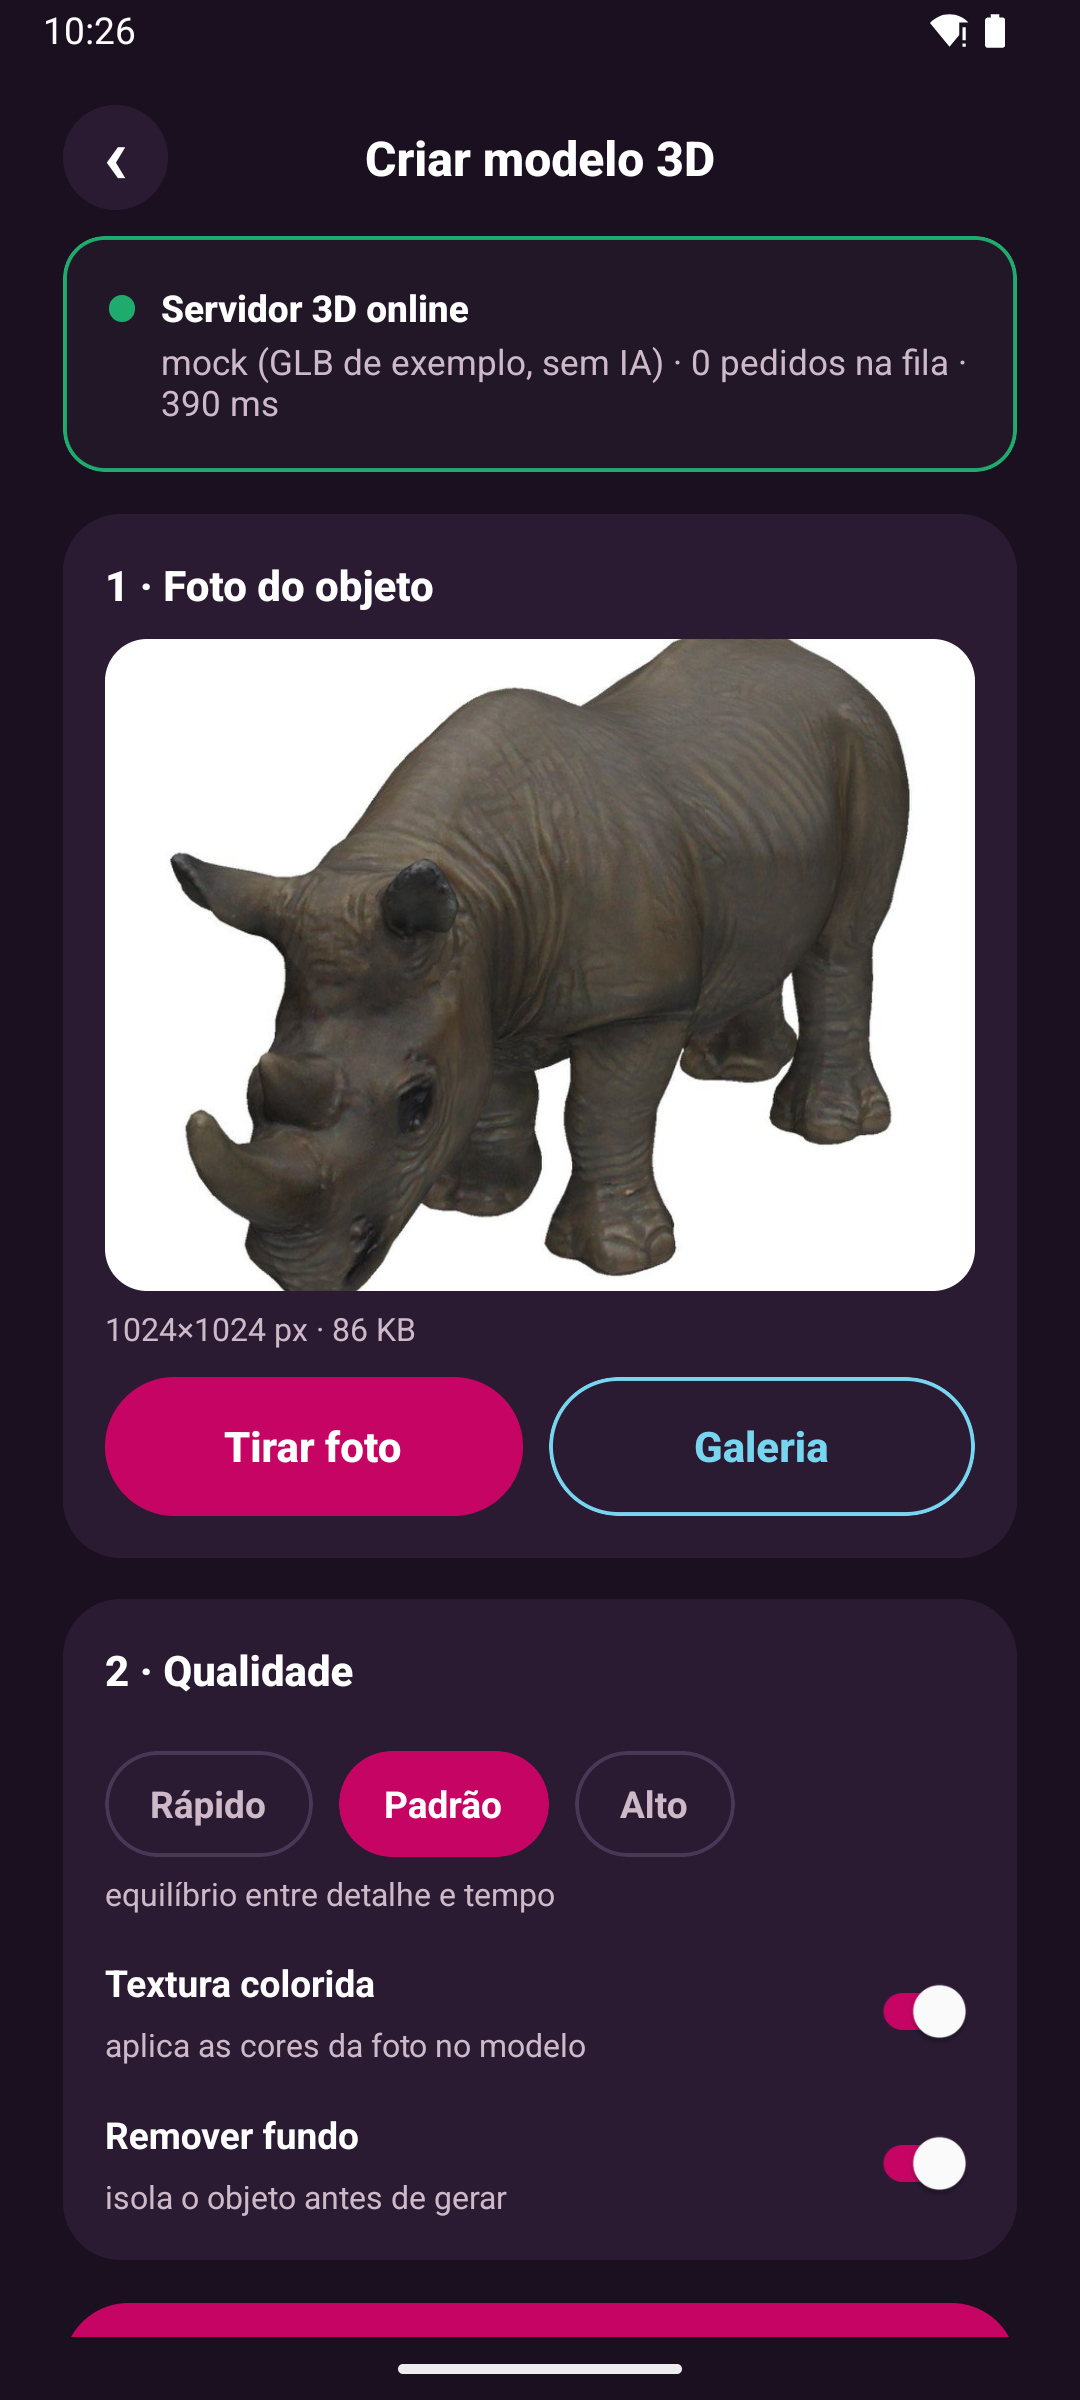
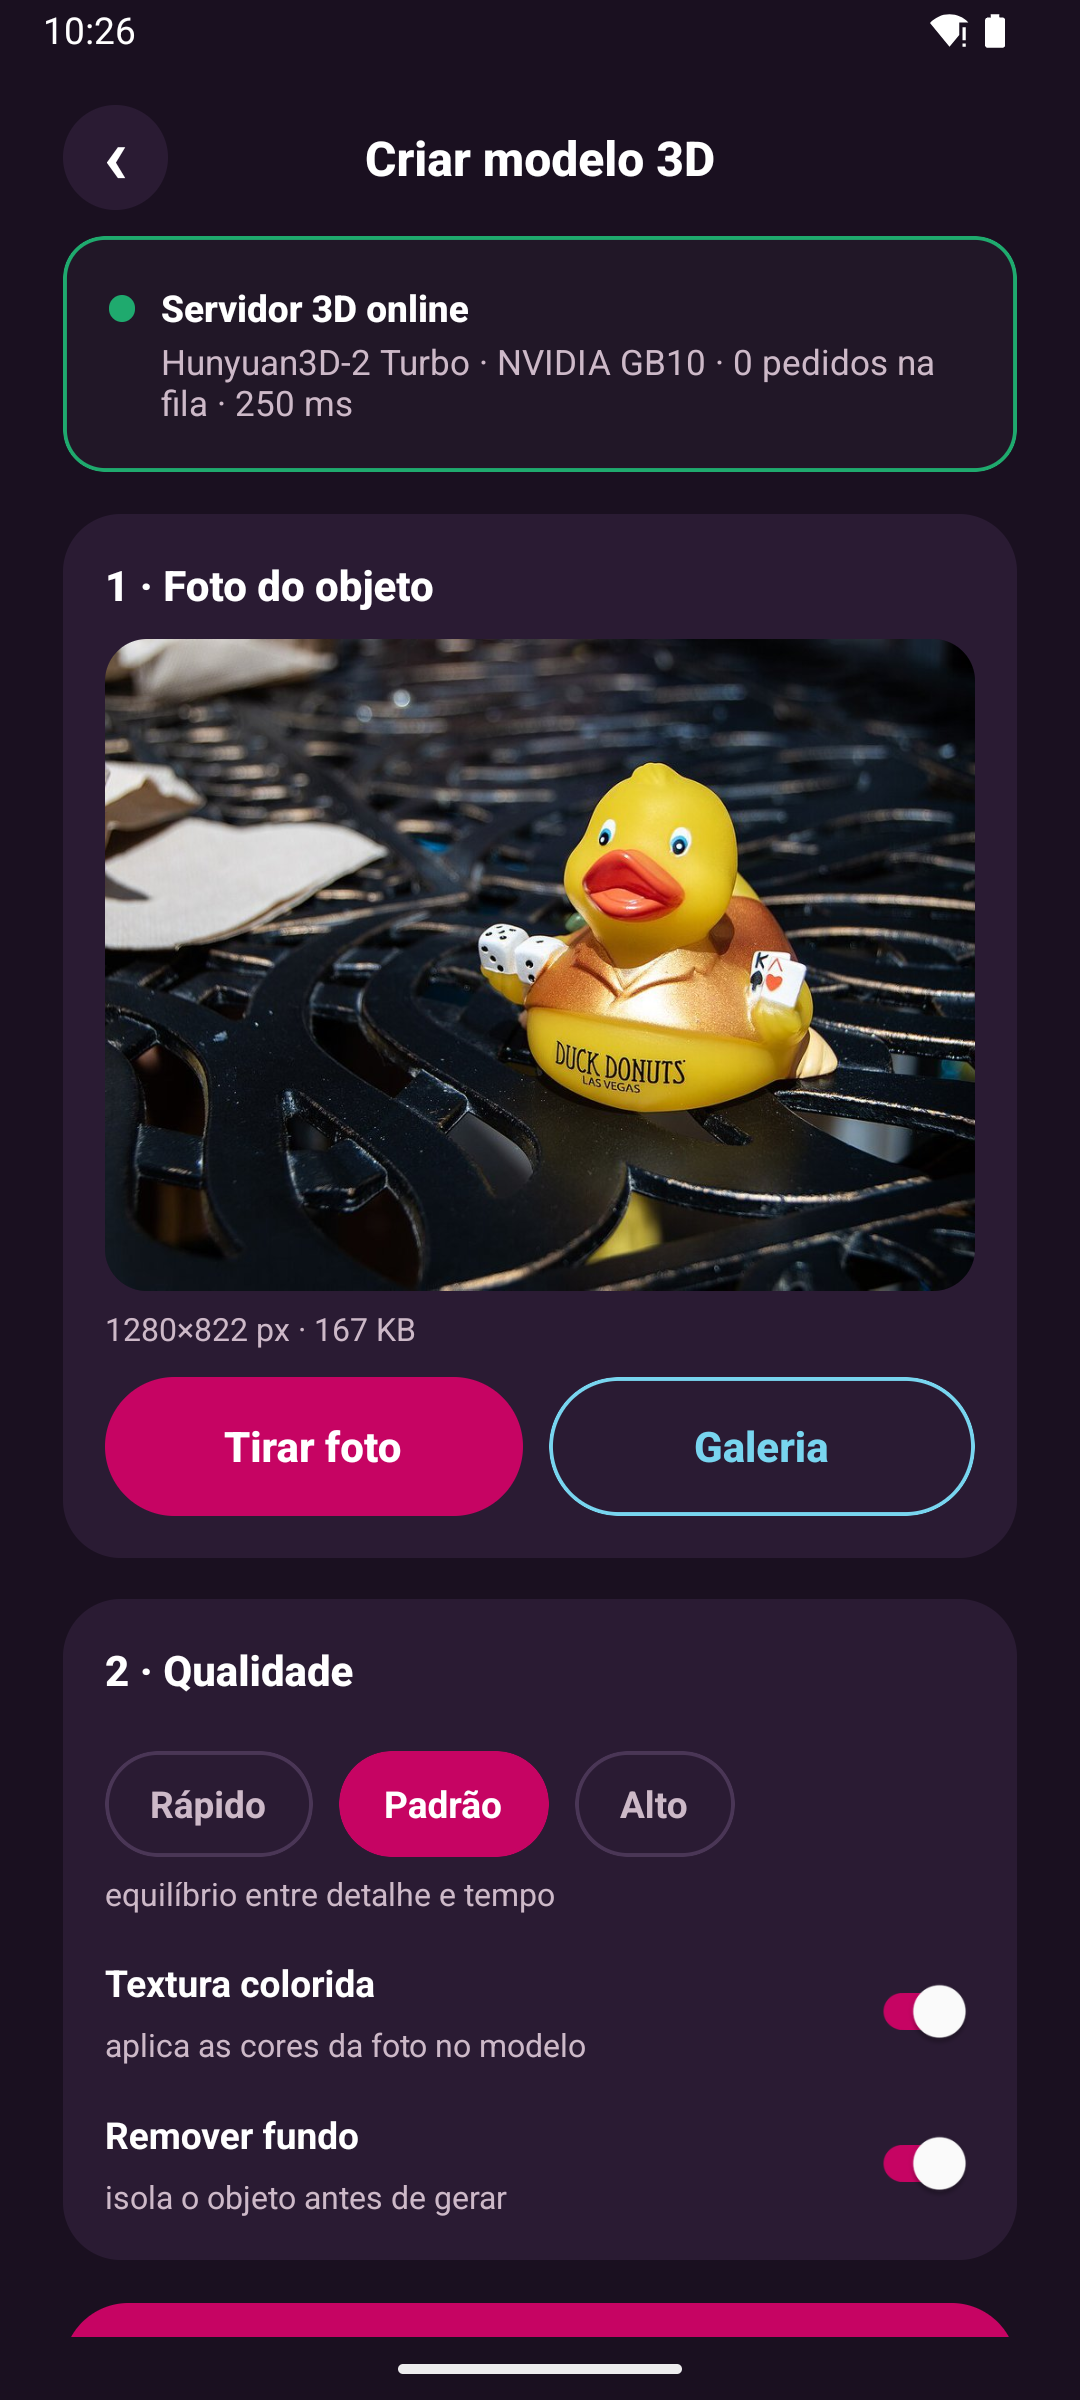
store: capturas com o servidor 3D real, guia de publicacao do APK e politica atualizada
- phone-2 e phone-3 (antes com o mock) substituidas por capturas do teste com o
  servidor real; nova phone-7 com modelo gerado a partir de foto no visualizador 3D
- make-graphics.py le as capturas de evidencias/android e evidencias/android-real
- PUBLICAR_PLAY_STORE.md: hashes do AAB/APK final, comando exato para publicar o APK
  em /opt/cerise-ota/ota/cerise-ar-1.1.0.apk (pendencia do Eduardo, sem tocar no
  version.json), chave de API opcional e exposicao do servidor como pre-requisito da producao
- politica de privacidade e formularios: Excluir no app tambem apaga a copia do servidor
- README: contrato tratado pelo app e tempos medidos contra o servidor real

Changed region(s): [[0.0917, 0.25, 0.9167, 0.5625], [0.1528, 0.125, 0.55, 0.1875], [0.5806, 0.125, 0.8861, 0.1562]]

diff --git a/cerise-expo/store/privacidade.html b/cerise-expo/store/privacidade.html
@@ -66,7 +66,7 @@
   <p>A comunicação com os servidores de produção usa conexão criptografada (HTTPS/TLS). O acesso aos servidores é restrito à equipe do projeto. Os arquivos no aparelho ficam na área privada do aplicativo.</p>
 
   <h2>6. Seus direitos (LGPD, art. 18)</h2>
-  <p>Você pode pedir confirmação de tratamento, acesso, correção, eliminação dos dados, informação sobre compartilhamento e revogação do consentimento. Como o app não tem contas, para pedir a exclusão antecipada de uma foto ou de um apelido no ranking, escreva para o contato acima informando a data/hora aproximada do envio. Modelos guardados no aparelho podem ser apagados por você a qualquer momento em <em>Meus modelos → Excluir</em>.</p>
+  <p>Você pode pedir confirmação de tratamento, acesso, correção, eliminação dos dados, informação sobre compartilhamento e revogação do consentimento. Como o app não tem contas, para pedir a exclusão antecipada de uma foto ou de um apelido no ranking, escreva para o contato acima informando a data/hora aproximada do envio. Modelos guardados no aparelho podem ser apagados por você a qualquer momento em <em>Meus modelos → Excluir</em>; ao excluir, o app também pede ao servidor de geração 3D que apague na hora a foto e o modelo correspondentes, se ainda estiverem lá.</p>
 
   <h2>7. Crianças e adolescentes</h2>
   <p>O app é destinado ao público em geral e não é direcionado a crianças menores de 13 anos. Recomenda-se que menores usem o envio de fotos com acompanhamento de um responsável e não fotografem pessoas.</p>

diff --git a/cerise-expo/store/make-graphics.py b/cerise-expo/store/make-graphics.py
@@ -5,7 +5,7 @@ Gera os recursos graficos da Play Store a partir dos assets do app:
   store/feature-graphic-1024x500.png (recurso grafico: paleta CERISE + emblema + print do app)
   store/screenshots/phone-*.png      (copias das capturas escolhidas, 1080x2400)
 
-Uso: python store/make-graphics.py <pasta_com_capturas_do_emulador>
+Uso: python store/make-graphics.py <pasta evidencias/ do espelho (com android/ e android-real/)>
 """
 import os
 import shutil
@@ -24,14 +24,16 @@ CERISE = (198, 4, 99)
 CYAN = (120, 213, 239)
 WHITE = (255, 255, 255)
 
-# capturas usadas na ficha (sem resultados do mock, para nao sugerir geracao que nao ocorreu)
+# capturas usadas na ficha. As telas de geracao (2, 3 e 7) sao do teste ponta a ponta contra o
+# servidor 3D REAL (android-real/, 26/10/2026); nenhuma mostra o mock.
 SHOTS = [
-    ("A01-home.png", "phone-1-home.png"),
-    ("A06-criar-foto.png", "phone-2-criar-foto.png"),
-    ("A08-gerando.png", "phone-3-gerando.png"),
-    ("A15-visualizador-catalogo.png", "phone-4-visualizador-3d.png"),
-    ("A18-visualizador-capacete.png", "phone-5-visualizador-pbr.png"),
-    ("A16-sobre.png", "phone-6-sobre.png"),
+    ("android/A01-home.png", "phone-1-home.png"),
+    ("android-real/R05-pato-foto.png", "phone-2-criar-foto.png"),
+    ("android-real/R13b-bule-renderizando-vistas.png", "phone-3-gerando.png"),
+    ("android/A15-visualizador-catalogo.png", "phone-4-visualizador-3d.png"),
+    ("android/A18-visualizador-capacete.png", "phone-5-visualizador-pbr.png"),
+    ("android/A16-sobre.png", "phone-6-sobre.png"),
+    ("android-real/R11-pato-visualizador-3d.png", "phone-7-modelo-gerado.png"),
 ]
 
 
@@ -94,8 +96,8 @@ def feature_graphic(shots_dir):
     d.rounded_rectangle((66, 380, 330, 424), radius=22, fill=CERISE)
     d.text((88, 388), "CERISE · EMC · UFG", font=font(22, "SemiBold"), fill=WHITE)
 
-    p1 = phone(os.path.join(shots_dir, "A15-visualizador-catalogo.png"), 430)
-    p2 = phone(os.path.join(shots_dir, "A01-home.png"), 380)
+    p1 = phone(os.path.join(shots_dir, "android", "A15-visualizador-catalogo.png"), 430)
+    p2 = phone(os.path.join(shots_dir, "android", "A01-home.png"), 380)
     img.alpha_composite(p2, (W - p2.width - 190, 80))
     img.alpha_composite(p1, (W - p1.width - 30, 45))
     out = os.path.join(STORE, "feature-graphic-1024x500.png")

diff --git a/cerise-expo/store/PUBLICAR_PLAY_STORE.md b/cerise-expo/store/PUBLICAR_PLAY_STORE.md
@@ -5,11 +5,11 @@ e em `cerise-expo/build-out/`. Os passos marcados com 🔑 exigem o login do Edu
 
 | Item pronto | Onde |
 |---|---|
-| AAB assinado com a chave de **upload** (versão 1.1.0, versionCode 110, targetSdk 36) | `build-out/cerise-ar-1.1.0-110.aab` |
-| APK release (instalação direta / testes) | `build-out/cerise-ar-1.1.0-110.apk` |
+| AAB assinado com a chave de **upload** (versão 1.1.0, versionCode 110, targetSdk 36) — rebuild final de 26/10/2026 (~10:33), depois do teste ponta a ponta contra o servidor 3D real | `build-out/cerise-ar-1.1.0-110.aab` (55.157.760 bytes, SHA-256 `1dfba4b8…dcf9`) |
+| APK release (instalação direta / testes; mesma versão e mesmo bundle JS do AAB) | `build-out/cerise-ar-1.1.0-110.apk` (83.299.939 bytes, SHA-256 `dd65ae36…05e8`) |
 | Keystore de upload + senhas (FORA do git) | `keystore/cerise-upload.jks` + `keystore/upload.properties` |
 | Textos da ficha (nome, descrições, notas da versão) | `store/listing-pt-BR.md` (limites conferidos em `store/listing-check.json`) |
-| Ícone 512×512, recurso gráfico 1024×500, capturas | `store/icon-512.png`, `store/feature-graphic-1024x500.png`, `store/screenshots/` |
+| Ícone 512×512, recurso gráfico 1024×500, 7 capturas (2, 3 e 7 com o servidor 3D real; nenhuma com o mock) | `store/icon-512.png`, `store/feature-graphic-1024x500.png`, `store/screenshots/` |
 | Política de privacidade (pronta; **publicação pendente**, ver passo 0b) | URL: https://cerise.wenfur.com.br/privacidade.html · fonte: `store/privacidade.html` |
 | Respostas: Segurança dos dados, IARC, público-alvo, acesso ao app | `store/formularios-play-console.md` |
 
@@ -36,6 +36,38 @@ curl -I https://cerise.wenfur.com.br/privacidade.html   # deve responder 200 tex
 ```
 
 > Em 26/10/2026 a página ainda não havia sido publicada (a URL respondia 404); o passo ficou pendente.
+
+## 0c. (Pendente — decisão do Eduardo) Publicar o APK 1.1.0 para instalação direta
+
+Decisão de 26/10/2026: **nada foi publicado no wenfur**. O APK release final (mesmo código do AAB,
+assinado com a chave de upload, testado ponta a ponta contra o servidor 3D real) está em
+`build-out/cerise-ar-1.1.0-110.apk`. Para disponibilizá-lo por link direto, quando decidir:
+
+```powershell
+scp C:\Users\eduar\AndroidStudioProjects\CeriseAR\cerise-expo\build-out\cerise-ar-1.1.0-110.apk wenfur-root:/opt/cerise-ota/ota/cerise-ar-1.1.0.apk
+ssh wenfur-root "chmod 644 /opt/cerise-ota/ota/cerise-ar-1.1.0.apk && sha256sum /opt/cerise-ota/ota/cerise-ar-1.1.0.apk"
+curl.exe -sI https://cerise.wenfur.com.br/ota/cerise-ar-1.1.0.apk   # deve responder 200 e Content-Length igual ao arquivo local
+Get-FileHash C:\Users\eduar\AndroidStudioProjects\CeriseAR\cerise-expo\build-out\cerise-ar-1.1.0-110.apk -Algorithm SHA256   # conferir com o sha256sum acima
+```
+
+- **Não** altere `/opt/cerise-ota/ota/version.json`: ele é lido pelo app nativo antigo (1.0.0, `cerise-1.apk`) para
+  oferecer atualização; mudar o `apkUrl` ali empurraria a 1.1.0 para quem tem a versão antiga — decisão separada.
+- Em 26/10/2026 `https://cerise.wenfur.com.br/ota/cerise-ar-1.1.0.apk` respondia **404** (nada publicado) e
+  `https://cerise.wenfur.com.br/ota/cerise-1.apk` respondia 200 (APK antigo, 66 MB).
+- A geração 3D só funciona fora da rede interna depois que o servidor 3D for exposto (passo 7.1).
+- O APK é assinado com a chave de **upload**; com o Play App Signing, a versão da Play é assinada por outra
+  chave. Quem instalar pelo link direto não recebe atualização pela Play (precisa desinstalar antes).
+
+## 0d. Chave de API do servidor 3D (só se a exposição usar `GEN3D_API_KEYS`)
+
+O app envia o cabeçalho `X-API-Key` quando é compilado (ou publicado por OTA) com a variável
+`EXPO_PUBLIC_GEN3D_API_KEY` definida; sem ela, nenhum cabeçalho é enviado (caso deste AAB). A chave fica
+embutida no bundle JS — serve contra uso casual, junto com o *rate limit* do servidor, não como segredo forte.
+
+```powershell
+$env:EXPO_PUBLIC_GEN3D_API_KEY = '<a mesma chave de gen3d.secrets.env no Spark>'
+cd C:\cx\android; .\gradlew.bat :app:bundleRelease :app:assembleRelease
+```
 
 ## 1. 🔑 Conta de desenvolvedor
 
@@ -95,6 +127,10 @@ Use as respostas prontas de `store/formularios-play-console.md`:
 
 1. **Antes de enviar:** o servidor de geração 3D tem que estar publicado e respondendo em
    `https://cerise.wenfur.com.br/gen3d/api/v1/health` (senão o revisor verá "Servidor 3D não respondeu").
+   Em 26/10/2026 o servidor está pronto e foi validado ponta a ponta com este app, mas só é acessível pela
+   rede interna (encaminhamento SSH local); a **exposição pública é decisão pendente do Eduardo** — proposta,
+   riscos e passos em `cerise-2026-gen3d/server/README.md`. Conferência depois de expor:
+   `curl.exe -s https://cerise.wenfur.com.br/gen3d/api/v1/health` deve devolver `"status":"ok"`.
 2. *Produção → Criar nova versão* → promover a versão testada → países: Brasil (ou todos) → **Enviar para revisão**.
 3. A primeira revisão costuma levar de alguns dias a ~1 semana.
 

diff --git a/cerise-expo/README.md b/cerise-expo/README.md
@@ -35,11 +35,33 @@ store/                   pacote da Play Store (textos, ícone, recurso gráfico,
 | POST | `/api/v1/jobs` (multipart `image` + `options` JSON) | envio da foto → `202 {job_id, position, eta_seconds}` |
 | GET | `/api/v1/jobs/{id}` | polling (1,5 s gerando · 2 s na fila · backoff em falha de rede) |
 | GET | `/api/v1/jobs/{id}/model.glb` · `/thumbnail.png` | download para `Documents/gen3d/models/<id>/` |
-| DELETE | `/api/v1/jobs/{id}` | cancelar enquanto está na fila |
+| DELETE | `/api/v1/jobs/{id}` | cancelar enquanto está na fila; ao **Excluir** em *Meus modelos*, apagar a foto e o modelo no servidor |
 
-URL padrão: `https://cerise.wenfur.com.br/gen3d` (produção planejada — **publicação pendente**).
+Detalhes do servidor real tratados pelo app: `202` com `status: "done"` (resultado vindo do cache do servidor),
+`/health` com `status` `ok | loading | paused | degraded` (fora de `ok` o app avisa que o pedido vai esperar na fila),
+`timings.queue_s/run_s` do job (mostrados em *Meus modelos → detalhes* ao lado dos tempos medidos no app) e
+cabeçalho opcional `X-API-Key` — enviado só quando o build/OTA é feito com `EXPO_PUBLIC_GEN3D_API_KEY` definida.
+
+URL padrão: `https://cerise.wenfur.com.br/gen3d` (produção planejada — **exposição pública do servidor pendente de decisão do Eduardo**).
 Para testes: emulador → `http://10.0.2.2:18095` (servidor real via `ssh -N -L 127.0.0.1:18095:localhost:8095 spark-bridge`)
 ou `http://10.0.2.2:18096` (mock); Simulador iOS → `http://localhost:18096`.
+
+### Validação ponta a ponta contra o servidor real (26/10/2026)
+
+Emulador Android 16 → encaminhamento SSH local → API real no DGX Spark (Hunyuan3D-2 Turbo, 1 worker, GPU GB10),
+fotos reais CC0 escolhidas pelo seletor de fotos do sistema. Tempos medidos pelo app (linha `[gen3d] modelo pronto`
+no logcat) e conferidos com o estado do job no servidor:
+
+| Objeto · preset | Envio | Fila | Geração | Download | Total | Execução no servidor | GLB |
+|---|---|---|---|---|---|---|---|
+| Pato de borracha · Rápido | 0,41 s | 1,25 s | 11,19 s | 0,67 s | 13,5 s | 11,2 s | 340 KB |
+| Burro (estatueta) · Rápido | 0,49 s | 1,35 s | 11,24 s | 0,45 s | 13,5 s | 11,3 s | 398 KB |
+| Bule de prata · Padrão | 0,66 s | 1,36 s | 14,42 s | 0,61 s | 17,1 s | 14,7 s | 622 KB |
+| Gato (estatueta) · Alto | 0,39 s | 1,21 s | 29,04 s | 0,90 s | 31,5 s | 30,2 s | 1,4 MB |
+| Gato · Padrão, atrás de 1 job Alto de outro cliente | 0,40 s | 28,25 s | 15,81 s | 0,46 s | 44,9 s | 15,9 s (fila 27,9 s) | 662 KB |
+| Pato · Rápido, reenvio (cache do servidor) | 0,29 s | 0,28 s | 0 | 0,43 s | 1,0 s | — | 340 KB |
+
+Dados: `APP_CERISE_AR/resultados/real-tempos-app.csv` e `real-jobs-servidor.json` (espelho local).
 
 ## Rodar o mock do servidor 3D
 
@@ -71,7 +93,7 @@ iPhone/TestFlight: ver `store/IOS_IPHONE_TESTFLIGHT.md` (precisa da sessão grá
 
 | Item | Valor |
 |---|---|
-| AAB release (ARM, assinado upload) | 55,2 MB · download estimado (bundletool, API 29+): 35,7 MB arm64-v8a, 34,1 MB armeabi-v7a |
+| AAB release (ARM, assinado upload) | 55,2 MB (55.157.760 bytes no rebuild final de 26/10, após o teste com o servidor real) · download estimado (bundletool, API 29+, build anterior): 35,7 MB arm64-v8a, 34,1 MB armeabi-v7a |
 | targetSdk / compileSdk / minSdk | 36 / 36 / 24 |
 | Permissões no APK final | CAMERA, INTERNET, ACCESS_NETWORK_STATE (+ permissão interna do AndroidX) |
 | Páginas de 16 KB | 30/30 `.so` de 64 bits com `PT_LOAD` ≥ 16 KB; `zipalign -c -P 16` OK |

diff --git a/cerise-expo/store/formularios-play-console.md b/cerise-expo/store/formularios-play-console.md
@@ -13,7 +13,7 @@ Revise se o app mudar (principalmente rede, permissões e SDKs).
 |---|---|
 | O app coleta ou compartilha algum dos tipos de dados do usuário exigidos? | **Sim** (fotos enviadas para gerar 3D; apelido opcional no ranking do jogo) |
 | Todos os dados do usuário coletados pelo app são criptografados em trânsito? | **Sim** — produção usa apenas HTTPS (`https://cerise.wenfur.com.br/...`). O cleartext só é liberado para `10.0.2.2`/`localhost`/`127.0.0.1` (testes locais; `res/xml/network_security_config.xml`). |
-| Vocês oferecem uma forma de os usuários pedirem a exclusão dos dados? | **Sim** — por e-mail de contato (política de privacidade) e exclusão automática em até 7 dias. Modelos locais: botão *Excluir* no app. |
+| Vocês oferecem uma forma de os usuários pedirem a exclusão dos dados? | **Sim** — por e-mail de contato (política de privacidade) e exclusão automática em até 7 dias. Botão *Excluir* em *Meus modelos*: apaga o modelo do aparelho e pede ao servidor (`DELETE /api/v1/jobs/{id}`) que apague na hora a foto e o modelo de lá. |
 | O app usa SDKs de anúncios/analytics/crash de terceiros? | **Não** |
 
 **Tipos de dados declarados**
